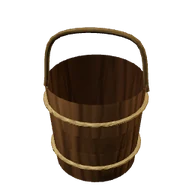
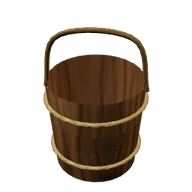
Avance: tercera vuelta: el cubo vacío, por dentro de madera (normales hacia el eje); las hojas mustias sin hundirse en los caballones; la prueba saca el cubo del móvil de lado; iconos-v29 con el cubo nuevo
Claude-Session: https://claude.ai/code/session_01Rt7ggQuNtkprJw3vKFqCwb

Changed region(s): [[0.25, 0.2812, 0.75, 0.5625]]

diff --git a/src/juego/modelos_objetos.js b/src/juego/modelos_objetos.js
@@ -490,7 +490,9 @@ export function cuboEn(L, x, y, z, { lleno = false, giro = null, asa = 0.4 } = {
   pon(new THREE.CircleGeometry(r0 * 0.97, D * 2), 'maderaOsc', 0, 0.025, 0, { x: -Math.PI / 2 }, { sinSuelo: true, tex: 'veta', brillo: 0.85 }); // el fondo, visto por dentro
   // por dentro: un torno de arriba abajo (sus caras miran hacia dentro, a la luz que entra por la boca; segunda mirada,
   // 14 nov: el cilindro en espejo salía negro, como un agujero)
-  pon(new THREE.LatheGeometry([new THREE.Vector2(r1 * 0.955, alto - 0.004), new THREE.Vector2(r0 * 0.955, 0.024)], D * 2), 'maderaOsc', 0, 0, 0, null, { tex: 'veta', sinSuelo: true, brillo: 0.95 });
+  const dentro = new THREE.LatheGeometry([new THREE.Vector2(r1 * 0.955, alto - 0.004), new THREE.Vector2(r0 * 0.955, 0.024)], D * 2);
+  { const p = dentro.attributes.position, n = dentro.attributes.normal; for (let i = 0; i < p.count; i++) { const x = p.getX(i), z = p.getZ(i), l = Math.hypot(x, z) || 1; n.setXYZ(i, -x / l, 0.25, -z / l); } }   // (las normales, hacia el eje y algo hacia arriba: la luz entra por la boca)
+  pon(dentro, 'madera', 0, 0, 0, null, { tex: 'veta', sinSuelo: true });
   for (const f of [0.22, 0.78]) pon(new THREE.TorusGeometry(r0 + (r1 - r0) * f + 0.004, 0.007, 4, 28), MIMBRE, 0, alto * f, 0, { x: Math.PI / 2 }, { tex: 'paja', sinSuelo: true });
   pon(tubo([v3(-r1, alto * 0.86, 0), v3(-0.1, alto + CUBO.asa, 0.02), v3(0.1, alto + CUBO.asa, 0.02), v3(r1, alto * 0.86, 0)], 0.007, 5), CUERDA, 0, 0, 0, { y: asa }, { tex: 'paja', sinSuelo: true });
   // el agua: un disco algo por debajo del borde, oscuro y con brillo (refleja el cielo), y su orilla más clara

diff --git a/src/juego/campos_vista.js b/src/juego/campos_vista.js
@@ -184,7 +184,7 @@ function mustiar(g0) {
   for (let i = 0; i < p.count; i++) {
     // (las hojas caídas: más bajas cuanto más lejos del centro, las puntas casi en el suelo)
     const x = p.getX(i), z = p.getZ(i), y = p.getY(i), r = Math.hypot(x, z), caida = Math.min(1, r / 0.2);
-    p.setXYZ(i, x * (1 + 0.25 * caida), Math.max(0.004, y * (0.55 - 0.35 * caida)), z * (1 + 0.25 * caida));
+    p.setXYZ(i, x * (1 + 0.25 * caida), Math.max(0.03, y * (0.55 - 0.35 * caida) + 0.02), z * (1 + 0.25 * caida));   // (no por debajo de los caballones de lo labrado: si no, la tierra les abría huecos)
     c.setXYZ(i, c.getX(i) + (MUSTIO.r - c.getX(i)) * 0.7, c.getY(i) + (MUSTIO.g - c.getY(i)) * 0.7, c.getZ(i) + (MUSTIO.b - c.getZ(i)) * 0.7);
   }
   return g;   // (sin rehacer las normales: las hojas van por las dos caras con la normal hacia arriba)

diff --git a/pruebas/prueba_campos_navegador.py b/pruebas/prueba_campos_navegador.py
@@ -493,6 +493,8 @@ try:
         if esperar(B, f"({K}.inventario.lugares['mano:der'] || {{}}).tipo === 'cubo_agua'", 8000):
             B.evaluate(f"{K}.cam.yaw = Math.PI + 3.1416 - 0.9; {K}.cam.dist = 2.6; {K}.cam.pitch = 0.3"); B.wait_for_timeout(2000)
             captura(B, f'{SALIDA}/movil_cubo_lleno_en_mano_de_cerca.png')
+            B.evaluate(f"{K}.cam.yaw = Math.PI + 3.1416 + 1.6; {K}.cam.dist = 2.2; {K}.cam.pitch = 0.25"); B.wait_for_timeout(2000)
+            captura(B, f'{SALIDA}/movil_cubo_lleno_de_lado.png')
         comprobar('a Bruno no le deja quitar las estacas de otro (lo dice)', (B.evaluate(f"(() => {{ const r = {K}.accion({{ tipo: 'quitar_estaca', campo: {K}.mundo.campos[0].id, i: 0 }}); return r.ok ? 'quitó' : r.motivo; }})()") == 'Fuera de tu tierra.'))
 
         for nombre, err in [('PC', errA), ('móvil', errB)]:
